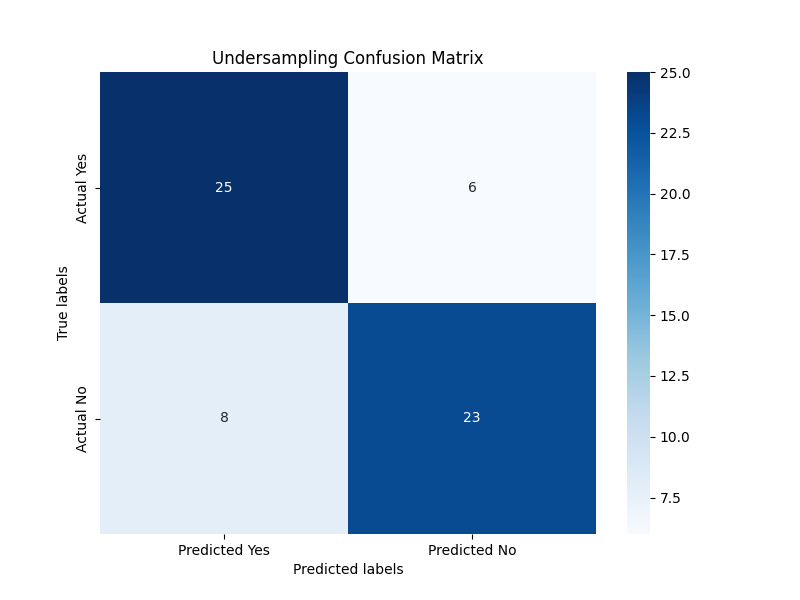
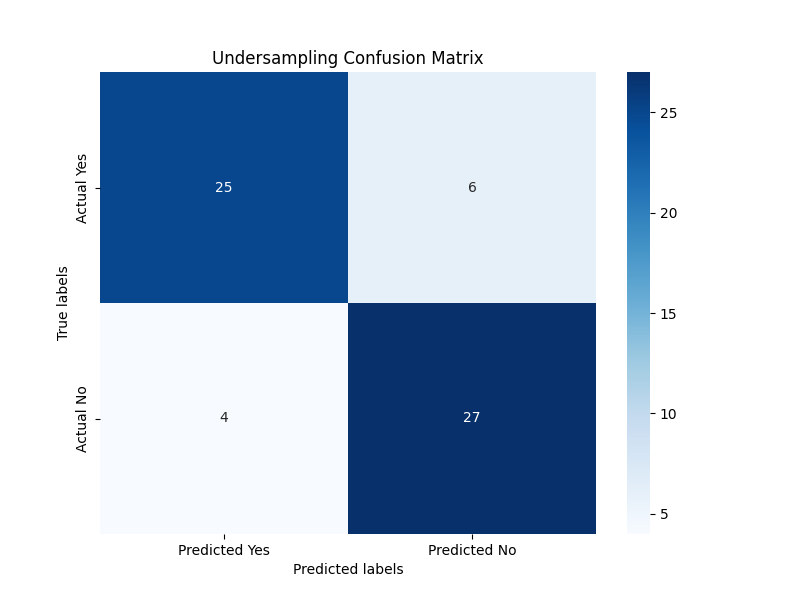
running LR in undersample, updated heatmap

diff --git a/undersampling.py b/undersampling.py
@@ -78,7 +78,7 @@ plt.boxplot(results, labels=names)
 plt.title('Undersampling: Algorithm Comparison')
 plt.show()
 
-model = DecisionTreeClassifier()
+model = LogisticRegression(solver='liblinear', multi_class='ovr')
 model.fit(X_train_under, Y_train_under)
 # Predictions on undersampled validation set
 predictions = model.predict(X_validation_under)
